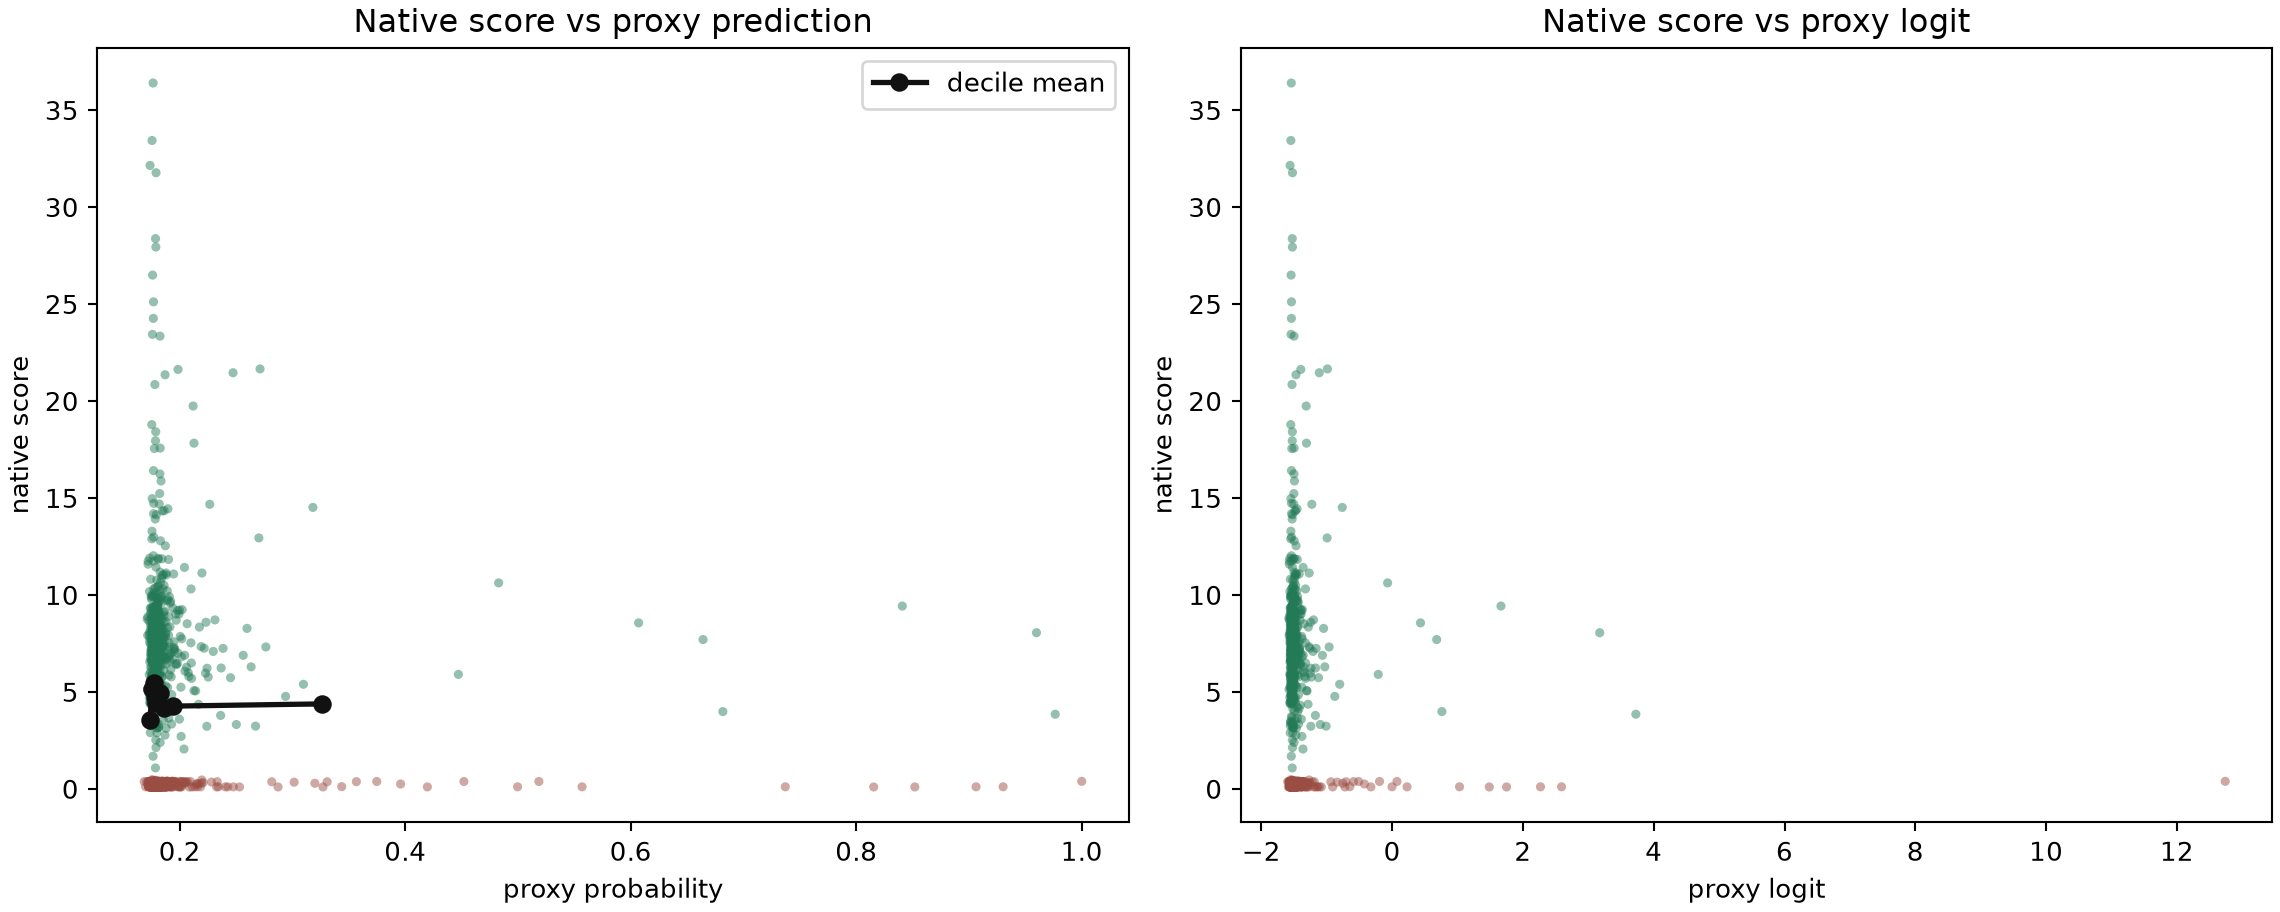
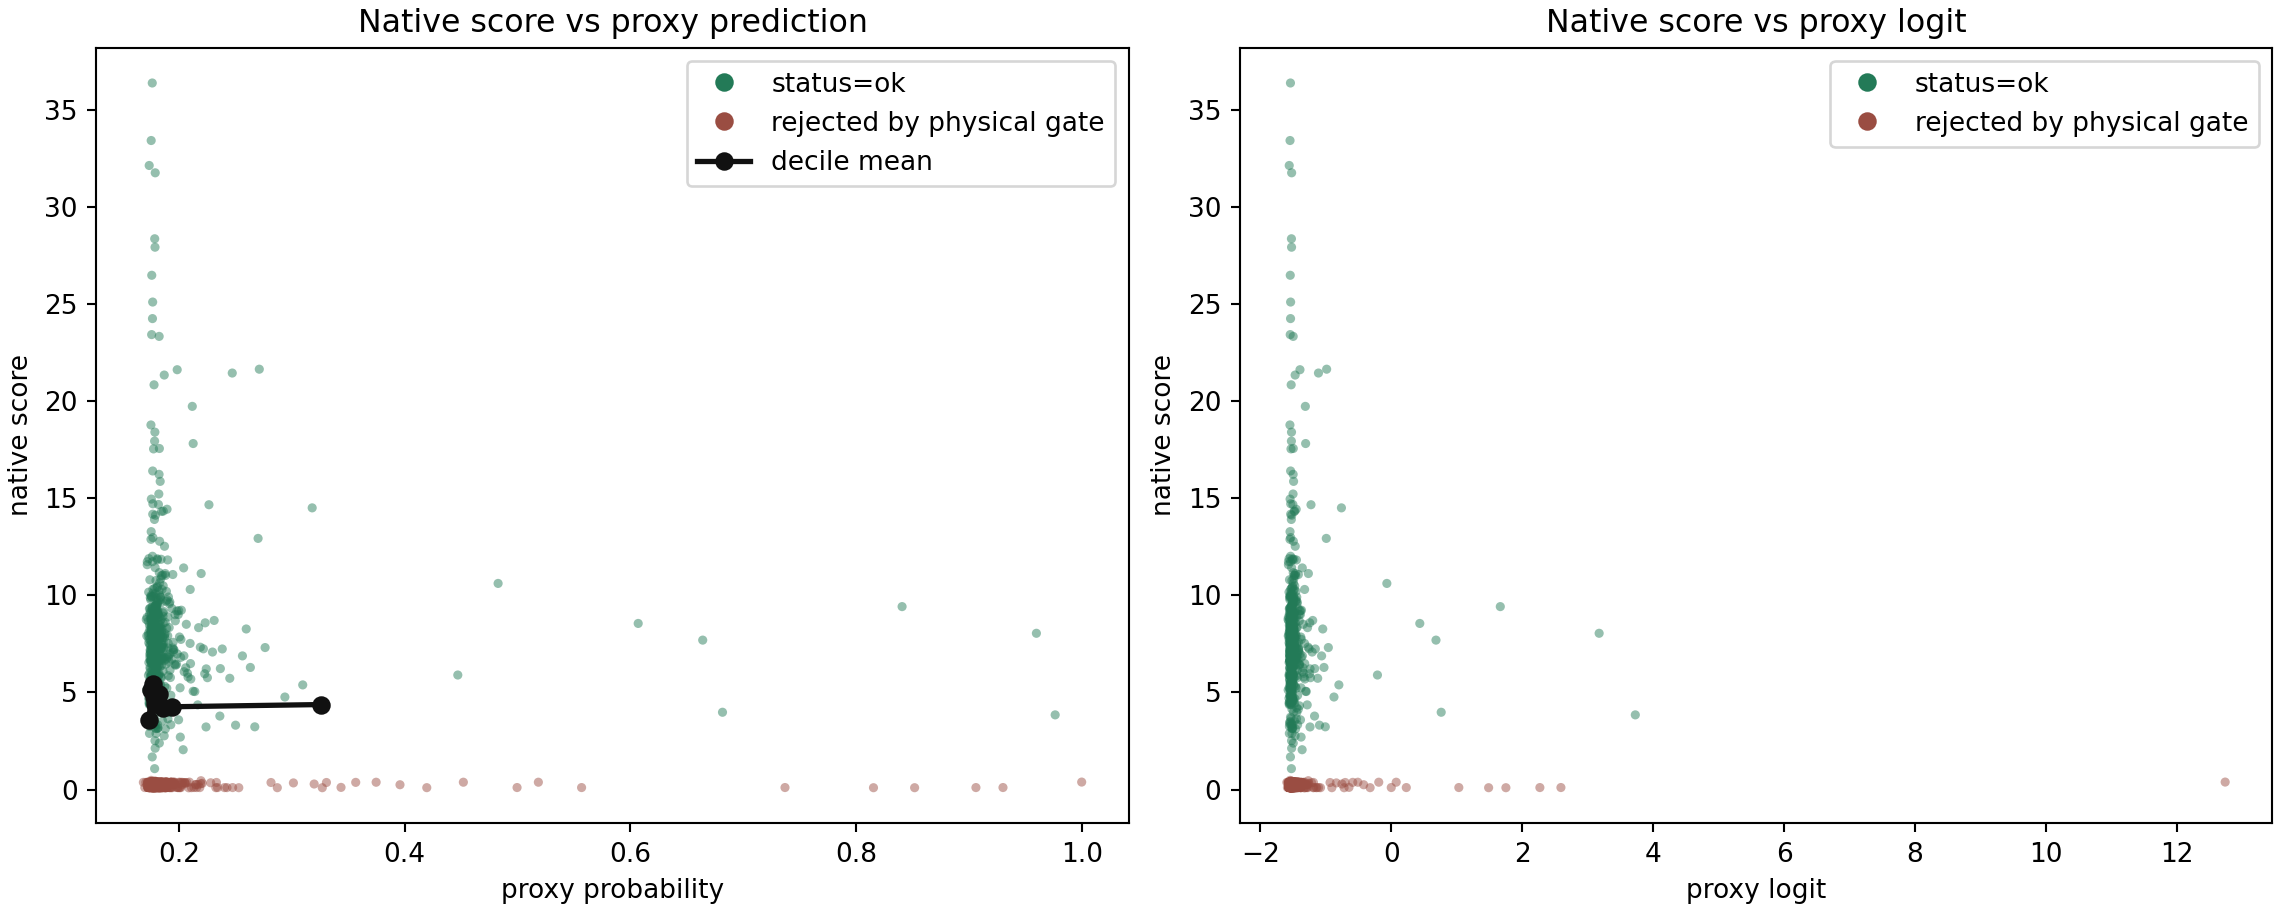
Clarify proxy score plot statuses

diff --git a/scripts/evaluate_qh_latent_proxy_score.py b/scripts/evaluate_qh_latent_proxy_score.py
@@ -297,22 +297,44 @@ def plot_score_correlation(
 
     matplotlib.use("Agg")
     import matplotlib.pyplot as plt
+    from matplotlib.lines import Line2D
 
-    colors = np.where(status == "ok", "#237a57", "#9a4d42")
+    ok_color = "#237a57"
+    rejected_color = "#9a4d42"
+    colors = np.where(status == "ok", ok_color, rejected_color)
     figure, axes = plt.subplots(1, 2, figsize=(12, 4.8), constrained_layout=True)
     axes[0].scatter(probability, score, c=colors, s=12, alpha=0.48, edgecolors="none")
-    axes[0].plot(
+    mean_line = axes[0].plot(
         [row["probability_mean"] for row in bins],
         [row["score_mean"] for row in bins],
         "o-",
         color="#111111",
         lw=2,
         label="decile mean",
-    )
+    )[0]
+    status_handles = [
+        Line2D(
+            [],
+            [],
+            marker="o",
+            linestyle="none",
+            color=ok_color,
+            label="status=ok",
+        ),
+        Line2D(
+            [],
+            [],
+            marker="o",
+            linestyle="none",
+            color=rejected_color,
+            label="rejected by physical gate",
+        ),
+    ]
     axes[0].set(xlabel="proxy probability", ylabel="native score", title="Native score vs proxy prediction")
-    axes[0].legend()
+    axes[0].legend(handles=[*status_handles, mean_line])
     axes[1].scatter(logit, score, c=colors, s=12, alpha=0.48, edgecolors="none")
     axes[1].set(xlabel="proxy logit", ylabel="native score", title="Native score vs proxy logit")
+    axes[1].legend(handles=status_handles)
     figure.savefig(output_dir / "proxy_prediction_vs_native_score.png", dpi=190)
     plt.close(figure)
 

diff --git a/reports/qh_flow_latent_proxy_experiment_report.md b/reports/qh_flow_latent_proxy_experiment_report.md
@@ -218,6 +218,12 @@ $$
 
 ![代理预测与原生 score 点云](assets/qh_latent_proxy_score_29824/proxy_prediction_vs_native_score.png)
 
+图中颜色和黑线的含义如下：
+
+- **绿色点**：原生评分返回 `status=ok`。这表示该样本成功找到磁轴和可用磁面，并通过磁通质量、长时间漂移等当前 score 的全部物理可行性门；纵轴 score 才是被评分流程接受的有效结果。
+- **红色点**：原生评分被至少一个物理门拒绝，即 `no_axis`、`no_surface`、`drift_rejected` 或 `flux_rejected`。纵轴仍画出程序返回的诊断性 score，但这类样本不能当作物理可行的高质量解。
+- **黑色折线和圆点**：每个 proxy 预测分位中全部样本的 mean score，红点和绿点都包含在内。为排除红点影响，表中“仅 `status=ok`”一行另行只用绿色点计算相关性；结果仍接近 0。
+
 ![代理预测分位与 score 趋势](assets/qh_latent_proxy_score_29824/proxy_score_decile_trend.png)
 
 十个预测分位的 mean score 只在 3.57 到 5.45 间无序波动，P90 也没有上升趋势。高概率尾部反而进一步排除了“只有最顶端才有用”的解释：
